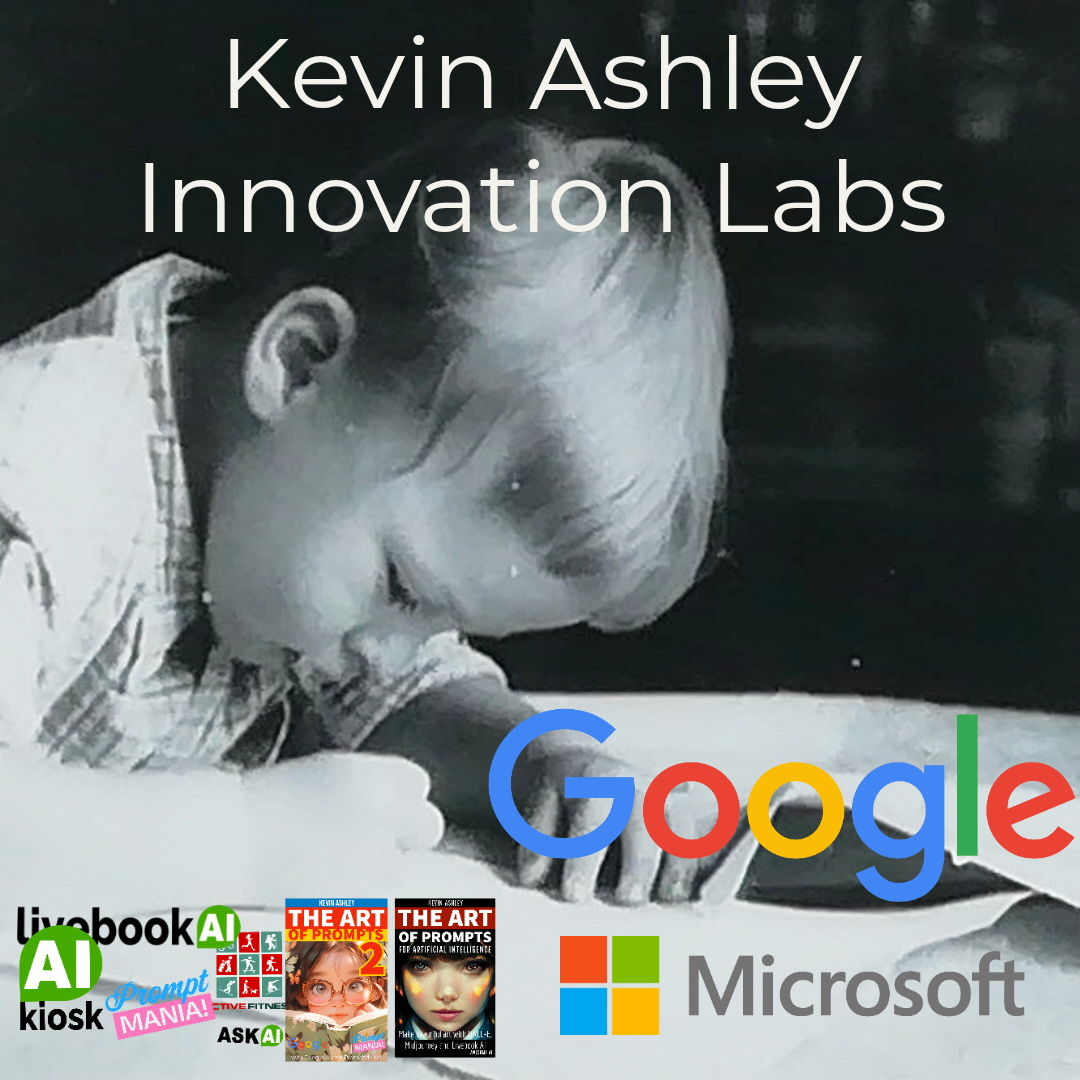
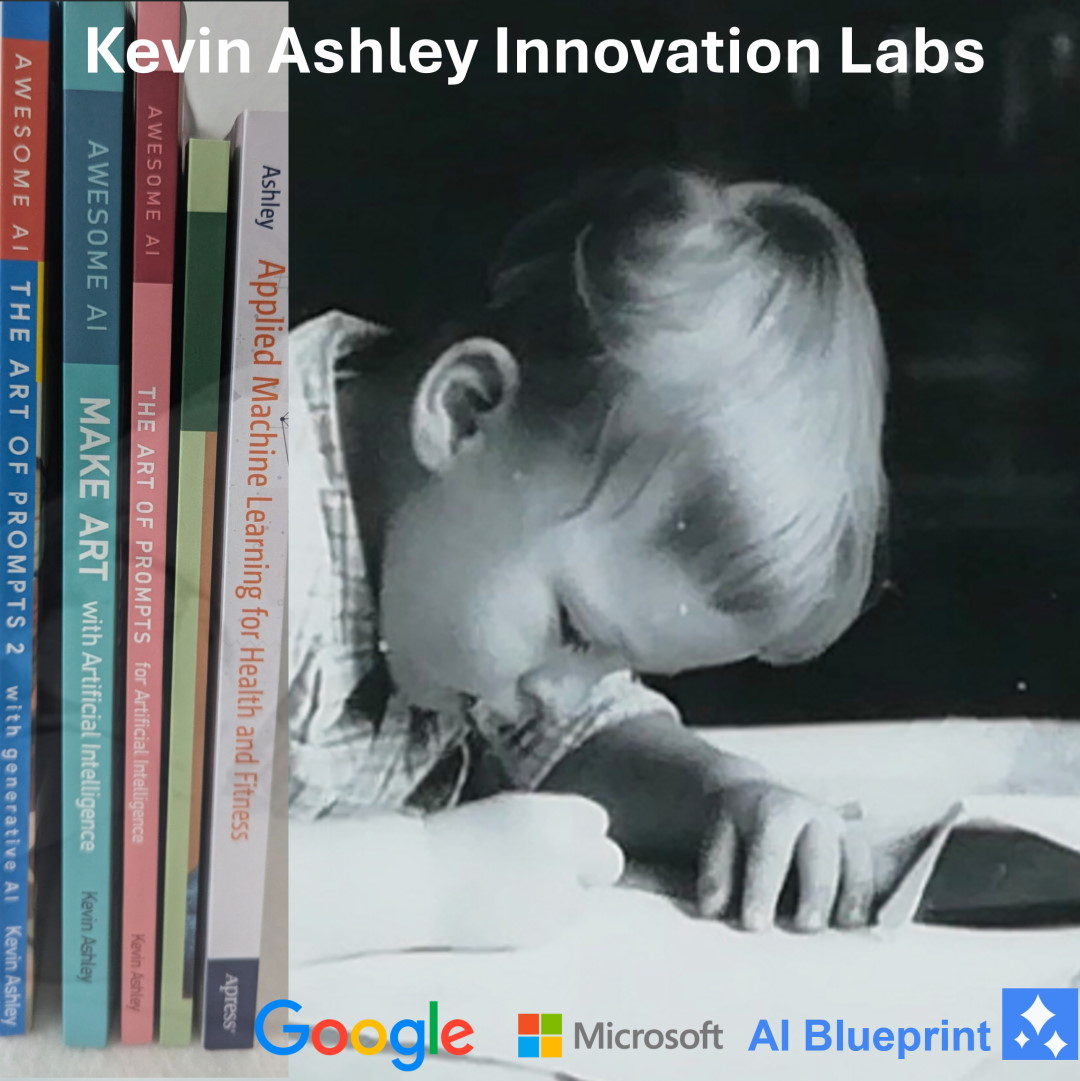
updates

diff --git a/README.md b/README.md
@@ -5,11 +5,18 @@ The lab's primary objective is supporting innovation and connection with everyda
 
 ## What's new in 2024!
 
-- [NEW! Art of Prompts 2](https://www.amazon.com/dp/B0CS6LPJYC) - The  new book in Art of Prompts [Paperback](https://www.amazon.com/dp/B0CS6LPJYC) or  [Ebook on Kindle](https://www.amazon.com/dp/B0CNFM527T) or [Ebook on Google Play](https://play.google.com/store/books/details?id=opjrEAAAQBAJ).
+- [AI Blueprint] (https://www.ai-blueprint.net) - New AI platform for rapid solutions: E-Commerce, Marketing, Finance, Investing, Support
+- [Art of Prompts 2](https://www.amazon.com/dp/B0CS6LPJYC) - The  new book in Art of Prompts [Paperback](https://www.amazon.com/dp/B0CS6LPJYC) or  [Ebook on Kindle](https://www.amazon.com/dp/B0CNFM527T) or [Ebook on Google Play](https://play.google.com/store/books/details?id=opjrEAAAQBAJ).
 - [Livebook](https://livebookai.com) - Generative AI CMS - Make and share your own generative AI notebooks, greeting cards, stories, illustrations and more!
 - [AI Coaching](http://aicoaching.us) - US Olympic and Paralympic Committee app with Generative AI
 
-## NEW! The Art of Prompts 2
+## AI Blueprint
+
+[![http://www.ai-blueprint.net](images/ai-blueprint-logo.png)](http://www.ai-blueprint.net)
+
+New AI platform for rapid solutions: E-Commerce, Marketing, Finance, Investing, Support.
+
+## The Art of Prompts 2
 
 [![http://kevinashley.com](images/banner_art_of_prompts_2.jpg)](https://www.amazon.com/dp/B0CS6LPJYC)
 
